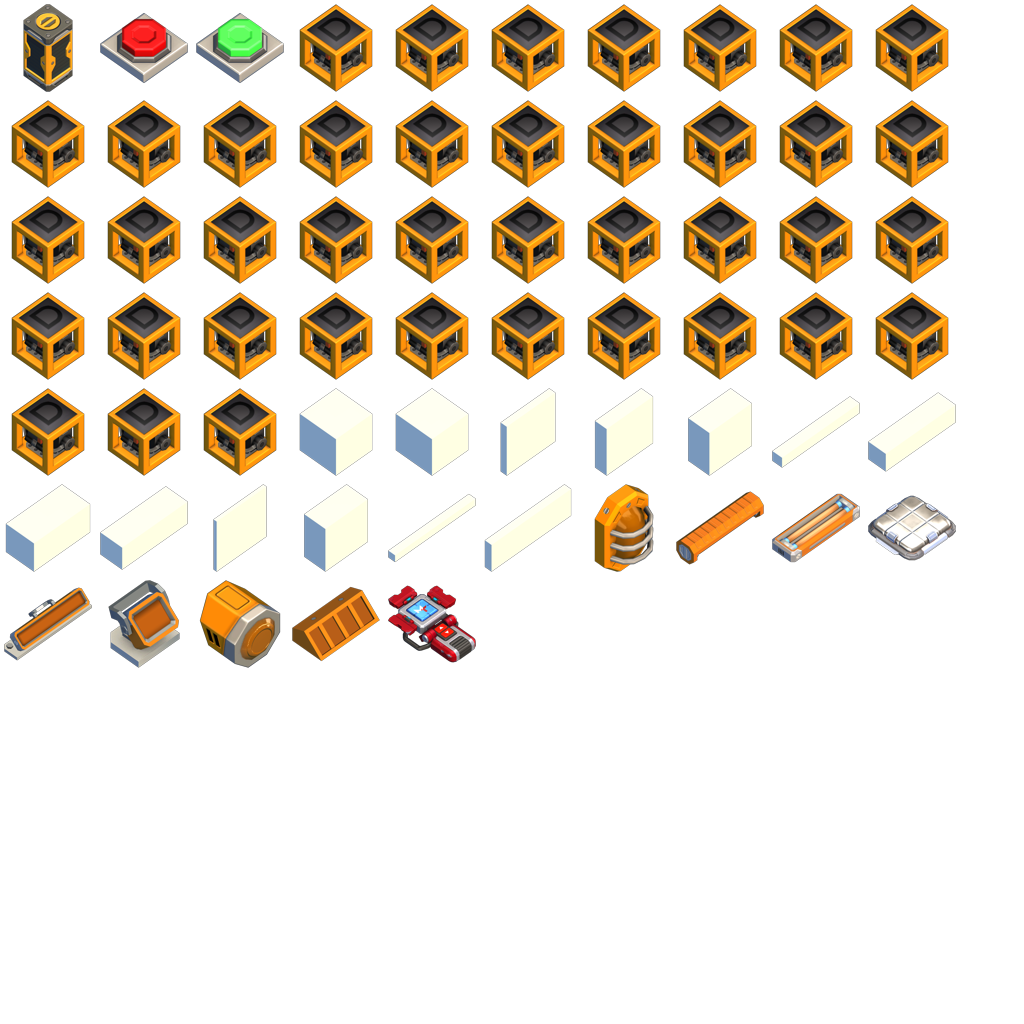
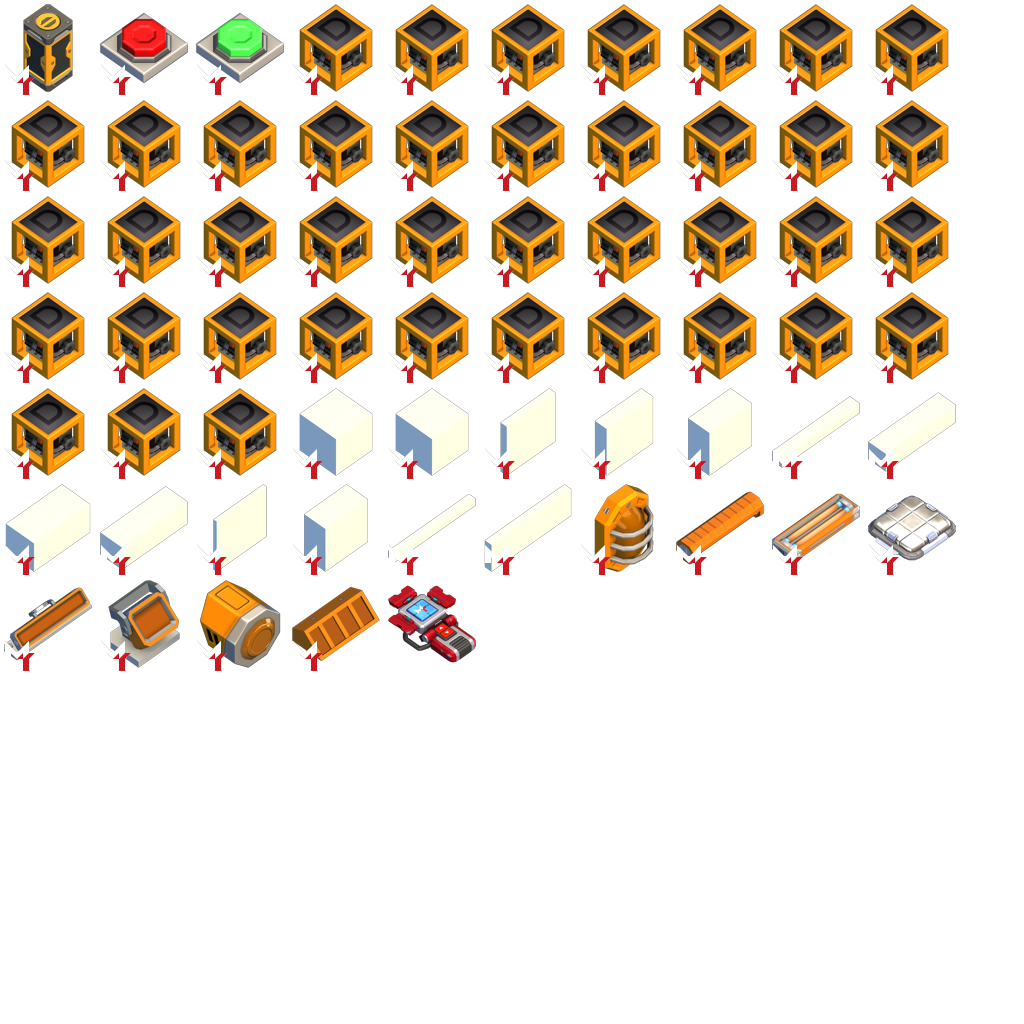
texture update

diff --git a/Gui/fastLogicAddIcons.py b/Gui/fastLogicAddIcons.py
@@ -1,0 +1,35 @@
+import cv2
+import numpy as np
+
+def blit(source:np.ndarray, destination:np.ndarray, xPos:int, yPos:int):
+    y1, y2 = yPos, yPos + source.shape[0]
+    x1, x2 = xPos, xPos + source.shape[1]
+    print(source.shape)
+    alpha_s = source[:, :, 3] / 255.0
+    alpha_l = 1.0 - alpha_s
+
+    for c in range(0, 4):
+        destination[y1:y2, x1:x2, c] = (alpha_s * source[:, :, c] +
+                                alpha_l * destination[y1:y2, x1:x2, c])
+    # destination[yPos:yPos+source.shape[0], xPos:xPos+source.shape[1]] = source
+
+
+image = cv2.imread(r"Gui\IconMap.png", cv2.IMREAD_UNCHANGED)
+logo = cv2.imread(r"C:\Users\Ben H\Downloads\MT_logo.png", cv2.IMREAD_UNCHANGED)
+
+imageSize = 96
+
+for i in range(64):
+    x = i%10*imageSize
+    y = i//10*imageSize
+    blit(logo, image, x, y)
+
+cv2.imshow("Image", image)
+
+cv2.waitKey(0)
+
+
+cv2.destroyAllWindows()
+
+if input("save? (y/n): ") == "y":
+    cv2.imwrite(r"Gui\IconMap.png", image)
